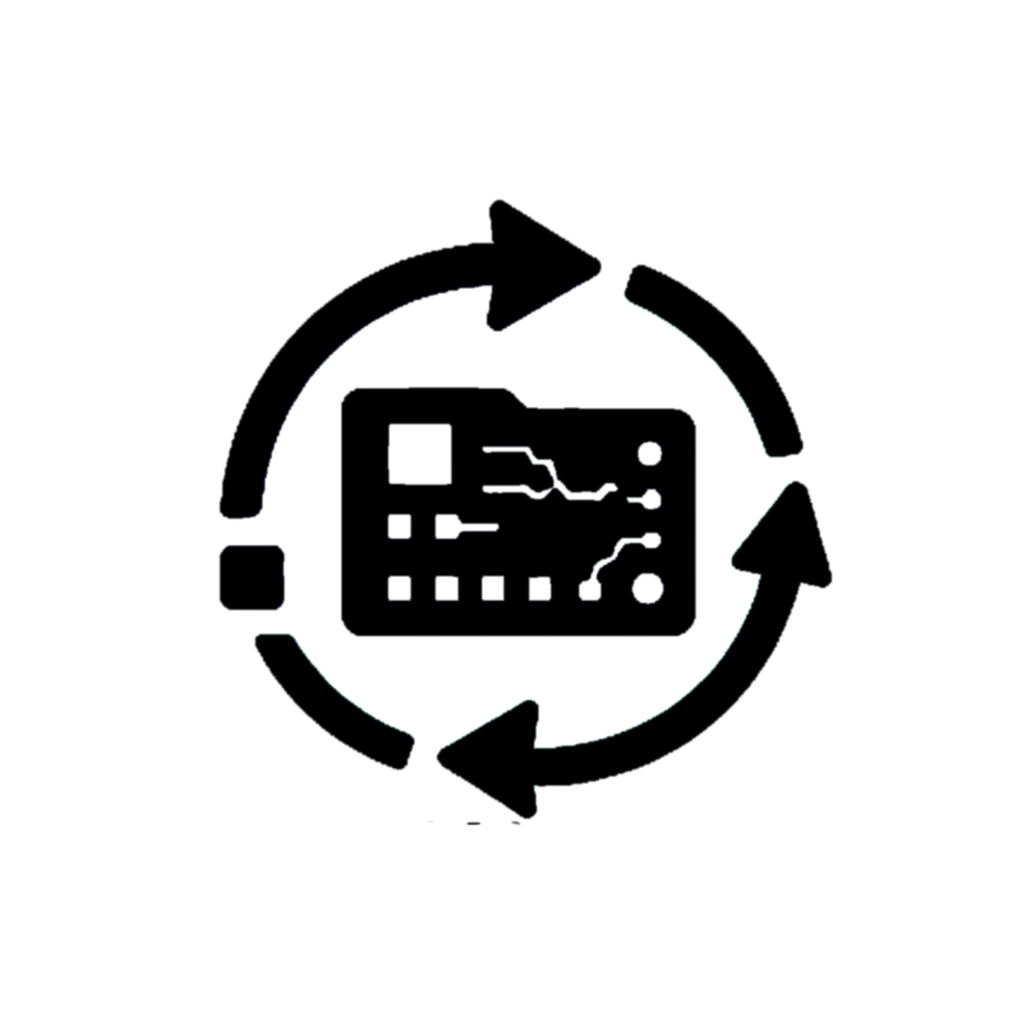
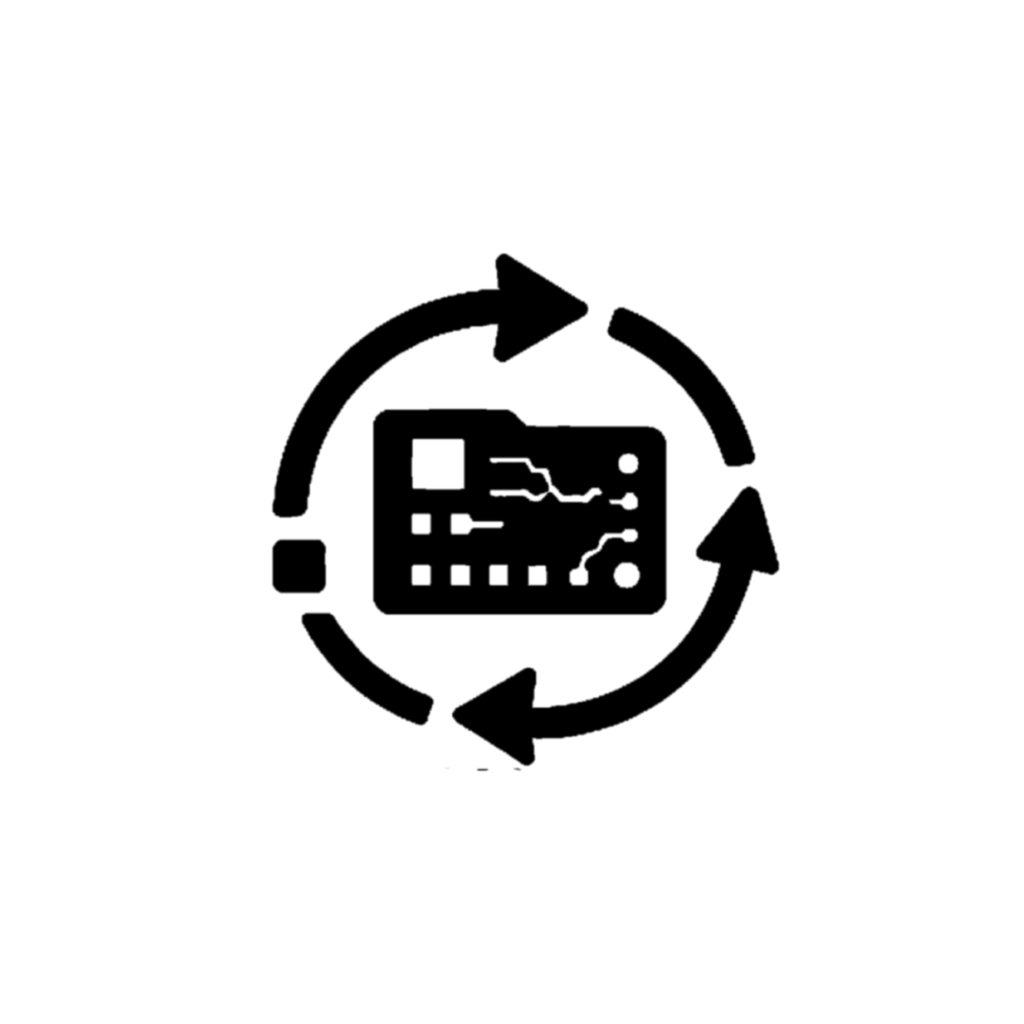
Refactor code structure for improved readability and maintainability

Changed region(s): [[0.1875, 0.1875, 0.8125, 0.8125]]

diff --git a/mobile/src/screens/MyProductsScreen.tsx b/mobile/src/screens/MyProductsScreen.tsx
@@ -1,23 +1,29 @@
-import { useCallback, useState } from 'react'
-import { View, Text, Image, TouchableOpacity, FlatList, Alert, ActivityIndicator } from 'react-native'
+import { useCallback, useMemo, useState } from 'react'
+import { View, Text, Image, TouchableOpacity, FlatList, Alert, TextInput, ScrollView } from 'react-native'
 import { useFocusEffect } from '@react-navigation/native'
 import { useApi } from '../lib/api'
-import { Plus, Tag, Trash } from 'lucide-react-native'
 import Loader from '../components/Loader'
 import EmptyState from '../components/EmptyState'
-import { PackageSearch } from 'lucide-react-native'
-import ScreenTransition from '../components/ScreenTransition'
-import { LayoutDashboard } from 'lucide-react-native'
+import { MapPin, MapPinHouse, PackageSearch, Plus, ScanBox, Search, Tag, Trash, User } from 'lucide-react-native'
 
 export default function MyProductsScreen({ navigation }: any) {
     const { call } = useApi()
     const [products, setProducts] = useState<any[]>([])
+    const [categories, setCategories] = useState<any[]>([])
     const [loading, setLoading] = useState(true)
+    const [search, setSearch] = useState('')
+    const [storageSearch, setStorageSearch] = useState('')
+    const [ownerSearch, setOwnerSearch] = useState('')
+    const [categoryFilter, setCategoryFilter] = useState<string>('')
 
     const load = async () => {
         try {
-            const res = await call('/api/products/mine')
-            setProducts(res.products)
+            const [productsRes, categoriesRes] = await Promise.all([
+                call('/api/products/mine'),
+                call('/api/categories'),
+            ])
+            setProducts(productsRes.products)
+            setCategories(categoriesRes.categories)
         } catch (e) {
             console.error(e)
         } finally {
@@ -26,6 +32,31 @@ export default function MyProductsScreen({ navigation }: any) {
     }
 
     useFocusEffect(useCallback(() => { load() }, []))
+
+    const filteredProducts = useMemo(() => {
+        let result = [...products]
+
+        if (categoryFilter) {
+            result = result.filter((p) => p.categoryId === categoryFilter)
+        }
+
+        if (search.trim()) {
+            const term = search.trim().toLowerCase()
+            result = result.filter((p) => p.name.toLowerCase().includes(term))
+        }
+
+        if (storageSearch.trim()) {
+            const term = storageSearch.trim().toLowerCase()
+            result = result.filter((p) => (p.storageLocation || '').toLowerCase().includes(term))
+        }
+
+        if (ownerSearch.trim()) {
+            const term = ownerSearch.trim().toLowerCase()
+            result = result.filter((p) => (p.owner || '').toLowerCase().includes(term))
+        }
+
+        return result
+    }, [products, categoryFilter, search, storageSearch, ownerSearch])
 
     const handleDelete = (product: any) => {
         Alert.alert('Confirmer', 'Supprimer ce produit ?', [
@@ -58,51 +89,111 @@ export default function MyProductsScreen({ navigation }: any) {
     }
 
     return (
-        <ScreenTransition>
-            <View className="flex-1 bg-base100 pt-14 px-4">
-                <View className="flex-row justify-between items-center mb-4">
-                    <Text className="text-xl font-bold text-baseContent">Mes produits</Text>
-                    <View className="flex-row gap-2">
-                        <TouchableOpacity onPress={() => navigation.navigate('Categories')} className="bg-base200 rounded-full p-2">
-                            <Tag size={18} color="#2E3440" />
-                        </TouchableOpacity>
-                        <TouchableOpacity onPress={() => navigation.navigate('NewProduct')} className="bg-primary rounded-full p-2">
-                            <Plus size={18} color="#ECEFF4" />
-                        </TouchableOpacity>
-                    </View>
+        <View className="flex-1 bg-base100 pt-14 px-4">
+            <View className="flex-row justify-between items-center mb-4">
+                <Text className="text-xl font-bold text-baseContent">Mes produits</Text>
+                <View className="flex-row gap-2">
+                    <TouchableOpacity onPress={() => navigation.navigate('Categories')} className="bg-base200 rounded-full p-2">
+                        <Tag size={18} color="#2E3440" />
+                    </TouchableOpacity>
+                    <TouchableOpacity onPress={() => navigation.navigate('NewProduct')} className="bg-primary rounded-full p-2">
+                        <Plus size={18} color="#ECEFF4" />
+                    </TouchableOpacity>
                 </View>
-
-                {products.length === 0 ? (
-                    <EmptyState message="Aucun produit disponible" IconComponent={PackageSearch} />
-                ) : (
-                    <FlatList
-                        data={products}
-                        keyExtractor={(item) => item.id}
-                        contentContainerStyle={{ gap: 10 }}
-                        renderItem={({ item }) => (
-                            <TouchableOpacity
-                                className="flex-row items-center gap-3 bg-white border border-base300 rounded-2xl p-3"
-                                onPress={() => navigation.navigate('EditProduct', { productId: item.id })}
-                            >
-                                {item.imageUrl ? (
-                                    <Image
-                                        source={{ uri: `${process.env.EXPO_PUBLIC_API_URL}${item.imageUrl}` }}
-                                        className="w-14 h-14 rounded-xl"
-                                    />
-                                ) : null}
-                                <View className="flex-1">
-                                    <Text className="font-bold text-baseContent">{item.name}</Text>
-                                    <Text className="text-sm text-neutral">{item.categoryName} — {item.quantity} en stock</Text>
-                                    <Text className="text-primary font-semibold">{item.price} TND</Text>
-                                </View>
-                                <TouchableOpacity onPress={() => handleDelete(item)}>
-                                    <Trash size={18} color="#BF616A" />
-                                </TouchableOpacity>
-                            </TouchableOpacity>
-                        )}
-                    />
-                )}
             </View>
-        </ScreenTransition>
+
+            <View className="flex-row items-center bg-white border border-base300 rounded-xl px-3 mb-2">
+                <Search size={16} color="#4C566A" />
+                <TextInput
+                    placeholder="Rechercher par nom..."
+                    value={search}
+                    onChangeText={setSearch}
+                    className="flex-1 px-2 py-3 text-baseContent"
+                />
+            </View>
+
+            <View className="flex-row gap-2 mb-3">
+                <View className="flex-1 flex-row items-center bg-white border border-base300 rounded-xl px-3">
+                    <ScanBox size={16} color="#4C566A" />
+                    <TextInput
+                        placeholder="Lieu de stockage..."
+                        value={storageSearch}
+                        onChangeText={setStorageSearch}
+                        className="flex-1 px-2 py-3 text-baseContent"
+                    />
+                </View>
+                <View className="flex-1 flex-row items-center bg-white border border-base300 rounded-xl px-3">
+                    <User size={16} color="#4C566A" />
+                    <TextInput
+                        placeholder="Propriétaire..."
+                        value={ownerSearch}
+                        onChangeText={setOwnerSearch}
+                        className="flex-1 px-2 py-3 text-baseContent"
+                    />
+                </View>
+            </View>
+
+            {categories.length > 0 && (
+                <View style={{ height: 44, marginBottom: 16 }}>
+                    <ScrollView
+                        horizontal
+                        showsHorizontalScrollIndicator={false}
+                        contentContainerStyle={{ gap: 8, alignItems: 'center' }}
+                    >
+                        <TouchableOpacity
+                            onPress={() => setCategoryFilter('')}
+                            className={`px-4 py-2 rounded-full border ${categoryFilter === '' ? 'bg-primary border-primary' : 'bg-white border-base300'}`}
+                            style={{ alignSelf: 'flex-start' }}
+                        >
+                            <Text className={categoryFilter === '' ? 'text-primaryContent' : 'text-baseContent'}>Toutes</Text>
+                        </TouchableOpacity>
+                        {categories.map((cat) => (
+                            <TouchableOpacity
+                                key={cat.id}
+                                onPress={() => setCategoryFilter(cat.id === categoryFilter ? '' : cat.id)}
+                                className={`px-4 py-2 rounded-full border ${categoryFilter === cat.id ? 'bg-primary border-primary' : 'bg-white border-base300'}`}
+                                style={{ alignSelf: 'flex-start' }}
+                            >
+                                <Text className={categoryFilter === cat.id ? 'text-primaryContent' : 'text-baseContent'}>{cat.name}</Text>
+                            </TouchableOpacity>
+                        ))}
+                    </ScrollView>
+                </View>
+            )}
+
+            <FlatList
+                data={filteredProducts}
+                keyExtractor={(item) => item.id}
+                contentContainerStyle={{ gap: 10, flexGrow: 1 }}
+                ListEmptyComponent={<EmptyState message="Aucun produit trouvé" IconComponent={PackageSearch} />}
+                renderItem={({ item }) => (
+                    <TouchableOpacity
+                        className="flex-row items-center gap-3 bg-white border border-base300 rounded-2xl p-3"
+                        onPress={() => navigation.navigate('EditProduct', { productId: item.id })}
+                    >
+                        {item.imageUrl ? (
+                            <Image
+                                source={{ uri: `${process.env.EXPO_PUBLIC_API_URL}${item.imageUrl}` }}
+                                className="w-14 h-14 rounded-xl"
+                            />
+                        ) : null}
+                        <View className="flex-1">
+                            <Text className="font-bold text-baseContent">{item.name}</Text>
+                            <Text className="text-sm text-neutral">{item.categoryName} — {item.quantity} en stock</Text>
+                            {item.storageLocation ? (
+                                <Text className="text-xs text-neutral">Lieu : {item.storageLocation}</Text>
+                            ) : null}
+                            {item.owner ? (
+                                <Text className="text-xs text-neutral">Propriétaire : {item.owner}</Text>
+                            ) : null}
+                            <Text className="text-primary font-semibold">{item.price} TND</Text>
+                        </View>
+                        <TouchableOpacity onPress={() => handleDelete(item)}>
+                            <Trash size={18} color="#BF616A" />
+                        </TouchableOpacity>
+                    </TouchableOpacity>
+                )}
+            />
+        </View>
     )
 }

diff --git a/mobile/src/screens/OnboardingScreen.tsx b/mobile/src/screens/OnboardingScreen.tsx
@@ -8,16 +8,12 @@ const { width } = Dimensions.get('window')
 const slides = [
     {
         image: require('../../assets/onboarding-1.png'),
-        title: 'Gérez votre stock',
     },
     {
         image: require('../../assets/onboarding-2.png'),
-        title: 'Explorez et échangez',
     },
     {
         image: require('../../assets/onboarding-3.png'),
-        title: 'Suivez vos ventes',
-        descrption: "Consultez votre tableau de bord pour voir vos meilleures ventes et votre stock faible.",
     },
 ]
 
@@ -39,7 +35,7 @@ export default function OnboardingScreen({ onDone }: { onDone: () => void }) {
     }
 
     return (
-        <View className="flex-1 bg-base100">
+        <View className="flex-1 bg-[#F6F9FE]">
             <PagerView
                 ref={pagerRef}
                 style={{ flex: 1 }}
@@ -48,8 +44,7 @@ export default function OnboardingScreen({ onDone }: { onDone: () => void }) {
             >
                 {slides.map((slide, index) => (
                     <View key={index} className="flex-1 items-center justify-center px-8">
-                        <Image source={slide.image} style={{ width: width * 0.75, height: width * 0.75 }} resizeMode="contain" />
-                        <Text className="text-2xl font-bold text-baseContent mt-8 text-center">{slide.title}</Text>
+                        <Image source={slide.image} style={{ width: width , height: width}} resizeMode="contain" />
                     </View>
                 ))}
             </PagerView>
@@ -61,7 +56,7 @@ export default function OnboardingScreen({ onDone }: { onDone: () => void }) {
                         className="h-2 rounded-full"
                         style={{
                             width: page === index ? 24 : 8,
-                            backgroundColor: page === index ? '#5E81AC' : '#F6F9FE',
+                            backgroundColor: page === index ? '#5E81AC' : '#d9dde3',
                         }}
                     />
                 ))}
